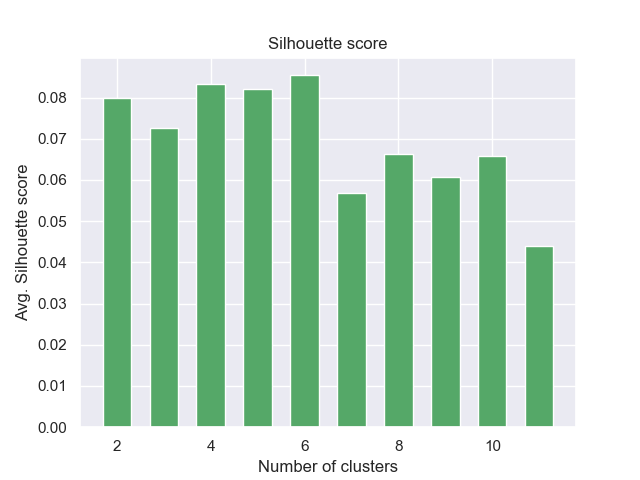
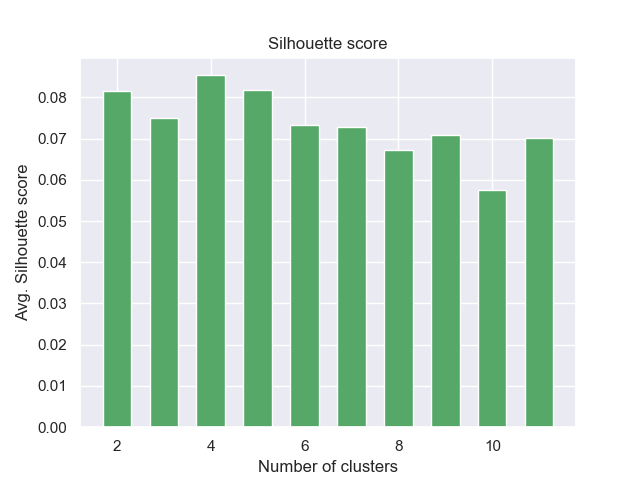
Finished?

diff --git a/BigData/Exam/problem2.py b/BigData/Exam/problem2.py
@@ -10,6 +10,7 @@ from scipy.cluster.hierarchy import dendrogram
 from sklearn.metrics import silhouette_samples, silhouette_score
 from sklearn.covariance import EllipticEnvelope
 from sklearn.ensemble import IsolationForest
+from sklearn.ensemble import ExtraTreesClassifier
 from sklearn.cluster import KMeans
 from sklearn import metrics
 import matplotlib
@@ -71,7 +72,6 @@ X_embedded = t_sne.fit_transform(X_scaled)
 
 # Removing outliers using EllipticEnvelope
 rev = IsolationForest().fit_predict(X_scaled)
-print(rev)
 outliers = np.where(rev == -1)[0]
 newX = np.delete(X, outliers, axis=0)
 X_embedded_new = np.delete(X_embedded, outliers, axis=0)
@@ -82,6 +82,20 @@ print(np.sum(rev == -1))
 kmeans3 = KMeans(n_clusters=3).fit_predict(newX)
 kmeans4 = KMeans(n_clusters=4).fit_predict(newX)
 
+# Feature importance based on KMeans clusters
+forest = ExtraTreesClassifier(n_estimators=250).fit(newX, kmeans3)
+
+importances3 = forest.feature_importances_
+std3 = np.std([tree.feature_importances_ for tree in forest.estimators_],
+             axis=0)
+indices3 = np.argsort(importances3)[::-1]
+
+forest = forest.fit(newX, kmeans4)
+importances4 = forest.feature_importances_
+std4 = np.std([tree.feature_importances_ for tree in forest.estimators_],
+             axis=0)
+indices4 = np.argsort(importances4)[::-1]
+
 
 # Clustering with silhouette scores, Org. Data
 range_n_clusters = range(2, 12)
@@ -90,7 +104,7 @@ sil_scores = []
 for n_clusters in range_n_clusters:
     # Initialize the clusterer with n_clusters value and a random generator
     # seed of 10 for reproducibility.
-    clusterer = KMeans(n_clusters=n_clusters, random_state=10)
+    clusterer = KMeans(n_clusters=n_clusters)
     cluster_labels = clusterer.fit_predict(X_scaled)
 
     # The silhouette_score gives the average value for all the samples.
@@ -169,7 +183,7 @@ sil_scores = []
 for n_clusters in range_n_clusters:
     # Initialize the clusterer with n_clusters value and a random generator
     # seed of 10 for reproducibility.
-    clusterer = KMeans(n_clusters=n_clusters, random_state=10)
+    clusterer = KMeans(n_clusters=n_clusters)
     cluster_labels = clusterer.fit_predict(pcaData)
 
     # The silhouette_score gives the average value for all the samples.
@@ -194,7 +208,7 @@ sil_scores = []
 for n_clusters in range_n_clusters:
     # Initialize the clusterer with n_clusters value and a random generator
     # seed of 10 for reproducibility.
-    clusterer = KMeans(n_clusters=n_clusters, random_state=10)
+    clusterer = KMeans(n_clusters=n_clusters)
     cluster_labels = clusterer.fit_predict(newX)
 
     # The silhouette_score gives the average value for all the samples.
@@ -223,6 +237,42 @@ plt.title('Hierarchical Clustering Dendrogram for data without outliers')
 plot_dendrogram(agglo, truncate_mode='level', p=5)
 plt.xlabel("Number of points in node (or index of point if no parenthesis).")
 
+# Plot the impurity-based feature importances of the forest
+nFeat = 10
+plt.figure()
+plt.title("Feature importances (n_clusters=3)")
+plt.bar(range(nFeat), importances3[indices3[:nFeat]],
+        color="r")
+plt.xticks(range(nFeat), indices3)
+plt.xlim([-1, nFeat])
+plt.ylabel("Importance metric")
+plt.xlabel("Feature index")
+
+plt.figure()
+plt.title("Feature importances (n_clusters=3)")
+plt.scatter(x=range(len(importances3)), y=importances3[indices3], c='r')
+plt.xticks([], [])
+plt.xlim([-1, len(importances3)])
+plt.ylabel("Importance metric")
+plt.xlabel("Feature index")
+
+plt.figure()
+plt.title("Feature importances (n_clusters=4)")
+plt.bar(range(nFeat), importances4[indices4[:nFeat]],
+        color="r")
+plt.xticks(range(nFeat), indices4)
+plt.xlim([-1, nFeat])
+plt.ylabel("Importance metric")
+plt.xlabel("Feature index")
+
+plt.figure()
+plt.title("Feature importances (n_clusters=4)")
+plt.scatter(x=range(len(importances4)), y=importances4[indices4], c='r')
+plt.xticks([], [])
+plt.xlim([-1, len(importances4)])
+plt.ylabel("Importance metric")
+plt.xlabel("Feature index")
+
 plt.figure()
 fIx = 220
 plt.scatter(x=range(len(X_scaled[:, fIx])), y=X_scaled[:, fIx])
@@ -236,5 +286,35 @@ plt.scatter(x=range(len(X_scaled[:, fIx])), y=X_scaled[:, fIx])
 plt.xlabel("Data point index")
 plt.ylabel("Feature value")
 plt.title("Feature value {} for all data points (scaled)".format(fIx))
+
+fig1, sub = plt.subplots(1, 5)
+fig1.subplots_adjust(wspace=0.6, hspace=0.6)
+binwidth = 1
+
+for c in range(0, 3):
+    for ix, ax in enumerate(sub.flatten()):
+        data = newX[np.where(kmeans3==c)[0], indices3[ix]]
+        ax.hist(data, color=colors[c], bins=np.arange(min(data), max(data) + binwidth, binwidth), density=True)
+        ax.set_title("Feature {}".format(indices3[ix]))
+        ax.set_xlabel("Feature values")
+        ax.set_ylabel("Density")
+
+fig1.legend(handles=classes[:-2])
+fig1.suptitle("Univariant Histogram of 5 most important features across data (n_cluster=3)")
+
+fig2, sub = plt.subplots(1, 5)
+fig2.subplots_adjust(wspace=0.6, hspace=0.6)
+binwidth = 1
+
+for c in range(0, 4):
+    for ix, ax in enumerate(sub.flatten()):
+        data = newX[np.where(kmeans4==c)[0], indices4[ix]]
+        ax.hist(data, color=colors[c], bins=np.arange(min(data), max(data) + binwidth, binwidth), density=True)
+        ax.set_title("Feature {}".format(indices4[ix]))
+        ax.set_xlabel("Feature values")
+        ax.set_ylabel("Density")
+
+fig2.legend(handles=classes[:-1])
+fig2.suptitle("Univariant Histogram of 5 most important features across data (n_cluster=4)")
 
 plt.show()
